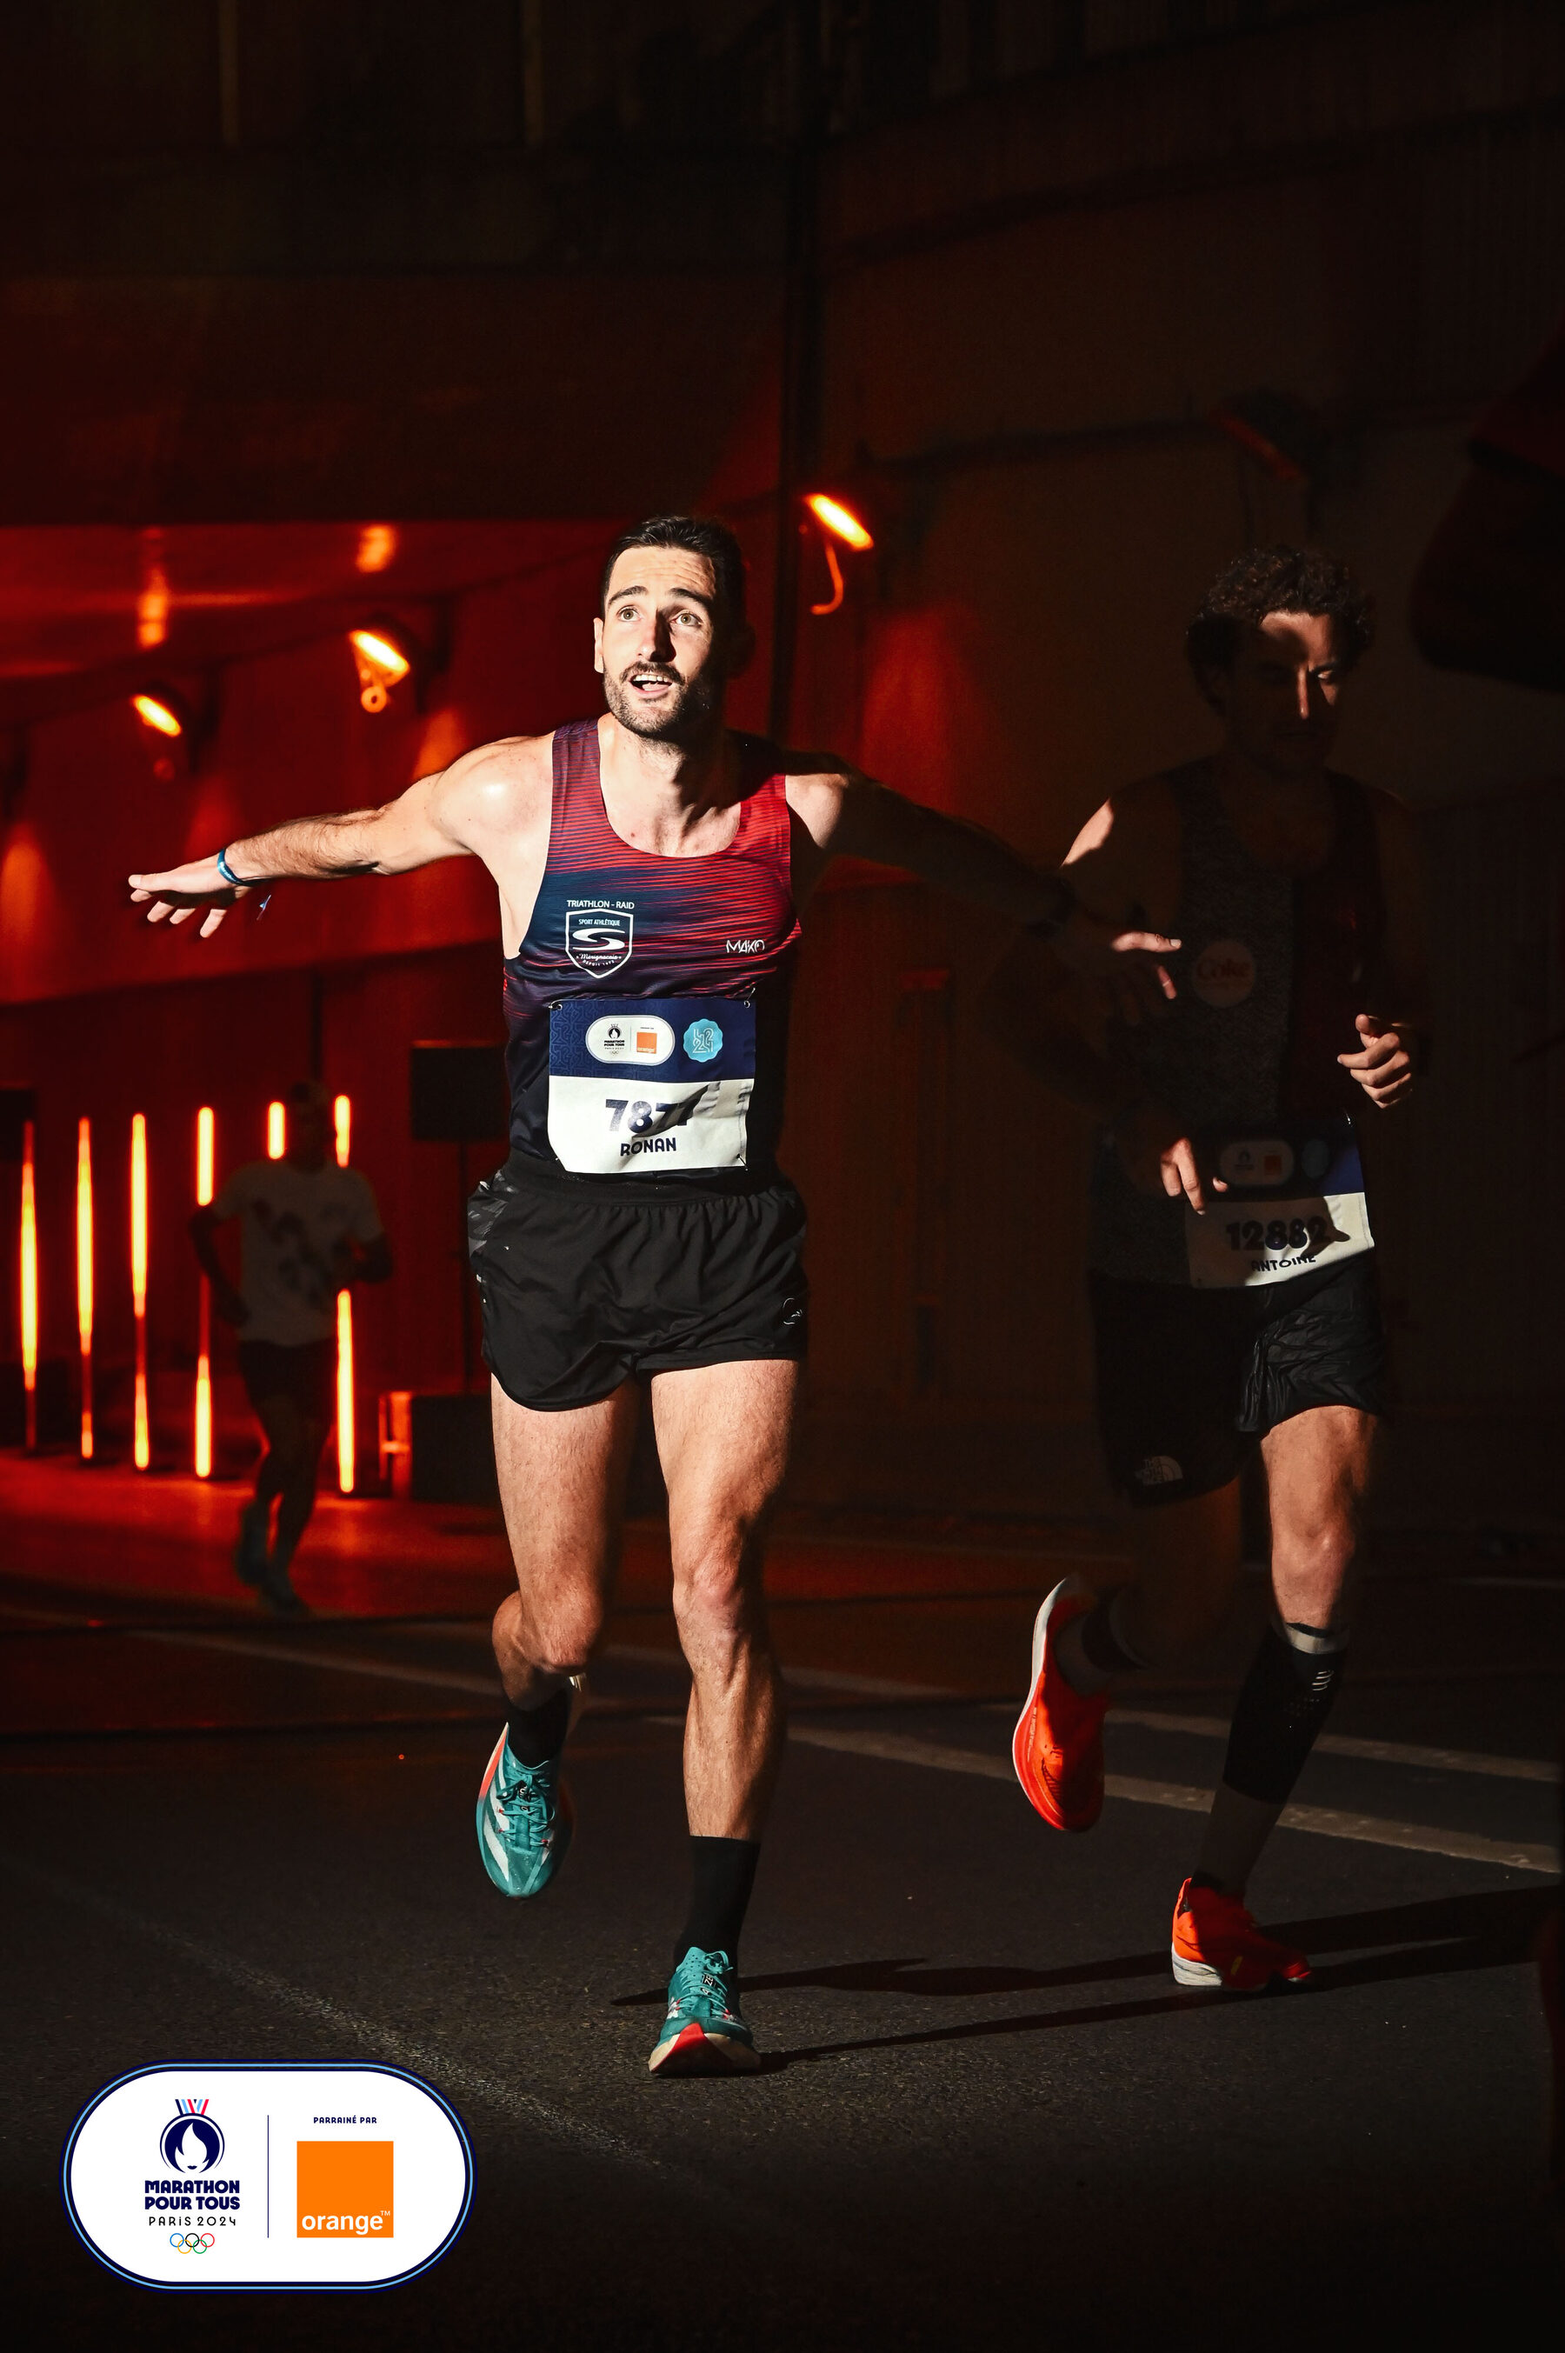
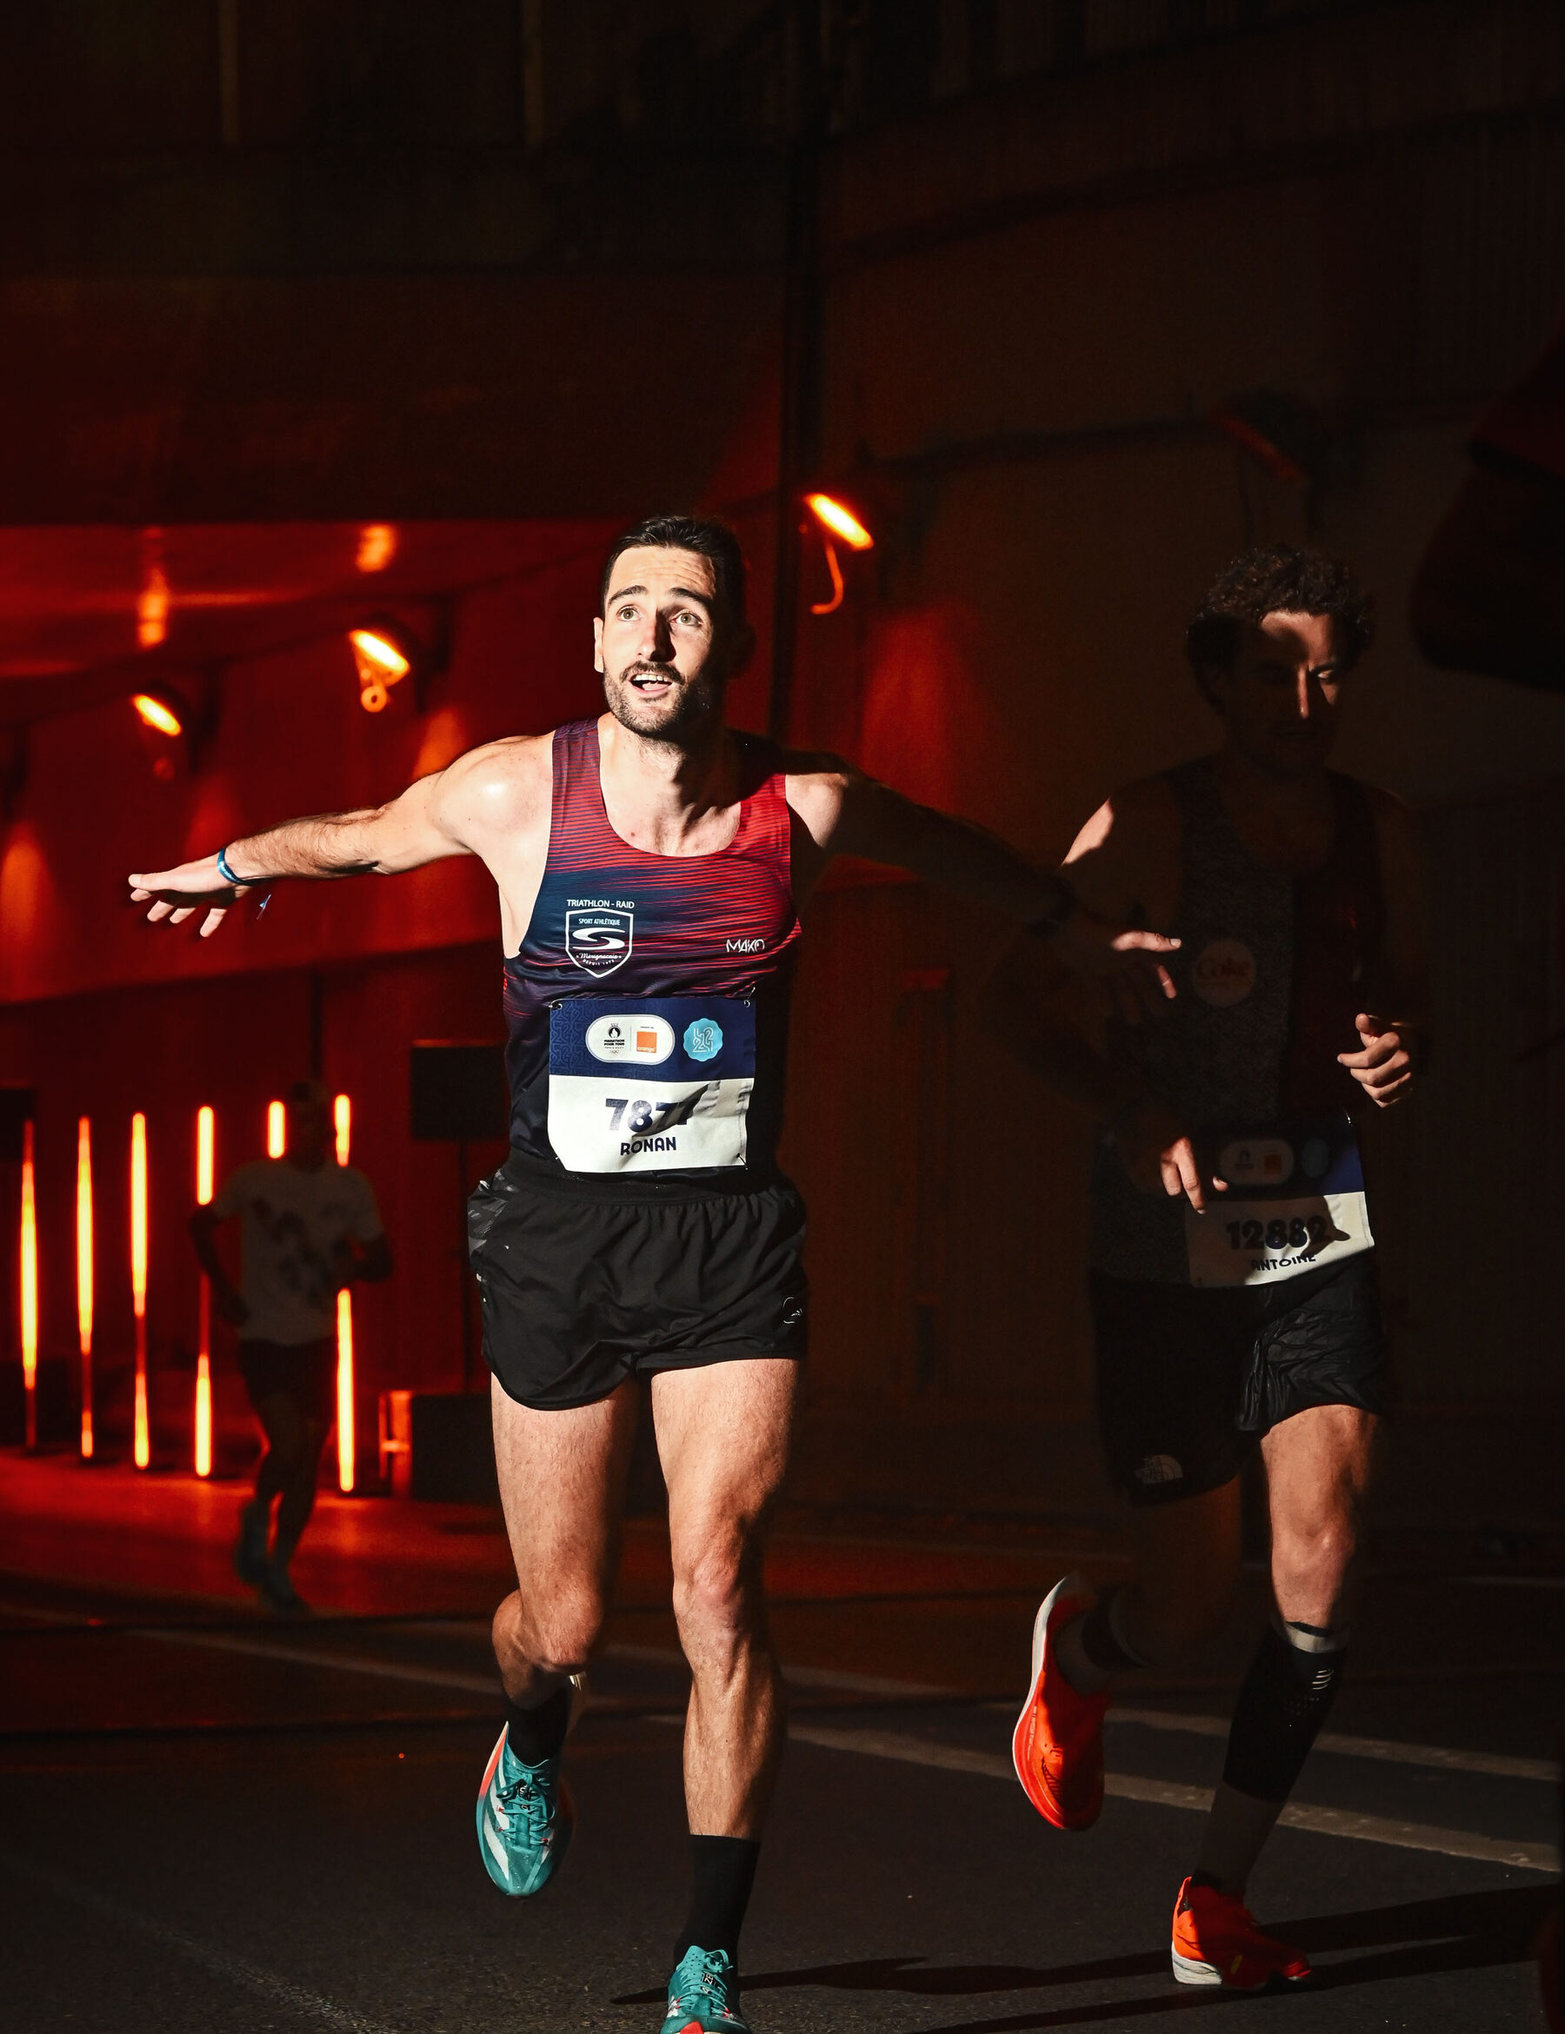
Controle des pages : titres d'onglet, photo du hero coaching, cle morte
- Titres d'onglet doubles sur les huit pages ("Entrainement — Ultra Tour de
  la Ria d'Etel | Ultra Tour de la Ria d'Etel") : chaque page ajoutait le nom
  du site, que le modele de la mise en page commune rajoute deja.
- Entrainement et Coaching : titre et description traduits (generateMetadata),
  ils restaient en francais sur /en et /es.
- Hero coaching : la photo portait en bas a gauche l'autocollant "Marathon
  pour tous / Orange" du photographe, qui tombait derriere le bouton "Nos
  epreuves" sur mobile et affichait des marques tierces. Recadree au-dessus.
- Cle ravitosBientot supprimee : l'onglet 33 km est actif, elle ne sert plus.

Claude-Session: https://claude.ai/code/session_015LAkd9YKbjMretpapgGy98

diff --git a/app/[locale]/entrainement/page.tsx b/app/[locale]/entrainement/page.tsx
@@ -1,5 +1,5 @@
 import type { Metadata } from "next";
-import { setRequestLocale } from "next-intl/server";
+import { getTranslations, setRequestLocale } from "next-intl/server";
 import Header from "@/app/components/Header";
 import EntrainementHero from "@/app/components/entrainement/EntrainementHero";
 import EntrainementNav from "@/app/components/entrainement/EntrainementNav";
@@ -12,11 +12,15 @@ import EntrainementRegles from "@/app/components/entrainement/EntrainementRegles
 import CoursePartenaires from "@/app/components/course/CoursePartenaires";
 import Footer from "@/app/components/Footer";
 
-export const metadata: Metadata = {
-  title: "Entraînement — Ultra Tour de la Ria d'Étel",
-  description:
-    "Prépare ton Ultra Tour de la Ria : conseils du coach, composition des ravitaillements, plan nutrition et matériel obligatoire des trois épreuves.",
-};
+export async function generateMetadata({
+  params,
+}: {
+  params: Promise<{ locale: string }>;
+}): Promise<Metadata> {
+  const { locale } = await params;
+  const t = await getTranslations({ locale, namespace: "entrainementPage" });
+  return { title: t("metaTitle"), description: t("metaDescription") };
+}
 
 export default async function Entrainement({
   params,

diff --git a/app/[locale]/coaching/page.tsx b/app/[locale]/coaching/page.tsx
@@ -1,5 +1,5 @@
 import type { Metadata } from "next";
-import { setRequestLocale } from "next-intl/server";
+import { getTranslations, setRequestLocale } from "next-intl/server";
 import Header from "@/app/components/Header";
 import CoachingHero from "@/app/components/coaching/CoachingHero";
 import CoachingPresentation from "@/app/components/coaching/CoachingPresentation";
@@ -12,11 +12,15 @@ import CoachingInstagram from "@/app/components/coaching/CoachingInstagram";
 import CoursePartenaires from "@/app/components/course/CoursePartenaires";
 import Footer from "@/app/components/Footer";
 
-export const metadata: Metadata = {
-  title: "Coach Ronan Kervadec — Ultra Tour de la Ria d'Étel",
-  description:
-    "Prépare l'Ultra Tour de la Ria avec Ronan Kervadec, entraîneur de trail et de triathlon : offres de coaching sur 3 mois, FAQ et conseils.",
-};
+export async function generateMetadata({
+  params,
+}: {
+  params: Promise<{ locale: string }>;
+}): Promise<Metadata> {
+  const { locale } = await params;
+  const t = await getTranslations({ locale, namespace: "coaching" });
+  return { title: t("metaTitle"), description: t("metaDescription") };
+}
 
 export default async function Coaching({
   params,

diff --git a/app/[locale]/cgv/page.tsx b/app/[locale]/cgv/page.tsx
@@ -4,7 +4,7 @@ import { getTranslations, setRequestLocale } from "next-intl/server";
 import LegalLayout from "@/app/components/LegalLayout";
 
 export const metadata: Metadata = {
-  title: "Conditions générales de vente — Ultra Tour de la Ria d'Étel",
+  title: "Conditions générales de vente",
   description:
     "Conditions générales de vente de l'Ultra Tour de la Ria d'Étel : inscriptions via Klikego, règlement, assurance.",
 };

diff --git a/app/[locale]/confidentialite/page.tsx b/app/[locale]/confidentialite/page.tsx
@@ -4,7 +4,7 @@ import { getTranslations, setRequestLocale } from "next-intl/server";
 import LegalLayout from "@/app/components/LegalLayout";
 
 export const metadata: Metadata = {
-  title: "Politique de confidentialité — Ultra Tour de la Ria d'Étel",
+  title: "Politique de confidentialité",
   description:
     "Politique de confidentialité de l'Ultra Tour de la Ria d'Étel : données collectées, cookies, droits RGPD.",
 };

diff --git a/app/[locale]/relais/page.tsx b/app/[locale]/relais/page.tsx
@@ -15,7 +15,7 @@ import CourseAutresEpreuves, {
 import Footer from "@/app/components/Footer";
 
 export const metadata: Metadata = {
-  title: "Relais Duo 80 km — Ultra Tour de la Ria d'Étel",
+  title: "Relais Duo 80 km",
   description:
     "Le Relais Duo : le Tour de la Ria d'Étel à deux, 50 km puis 30 km avec passage de relais à Sainte-Hélène. Parcours, infos pratiques et inscription. 16 octobre 2027.",
 };

diff --git a/app/[locale]/33km/page.tsx b/app/[locale]/33km/page.tsx
@@ -15,7 +15,7 @@ import CourseAutresEpreuves, {
 import Footer from "@/app/components/Footer";
 
 export const metadata: Metadata = {
-  title: "Trail 33 km — Ultra Tour de la Ria d'Étel",
+  title: "Trail 33 km",
   description:
     "Le 33 de la Ria, un trail entre sentiers techniques et paysages emblématiques de la Ria d'Étel : parcours, infos pratiques et inscription. 16 octobre 2027, Sainte-Hélène.",
 };

diff --git a/app/[locale]/mentions-legales/page.tsx b/app/[locale]/mentions-legales/page.tsx
@@ -4,7 +4,7 @@ import { getTranslations, setRequestLocale } from "next-intl/server";
 import LegalLayout from "@/app/components/LegalLayout";
 
 export const metadata: Metadata = {
-  title: "Mentions légales — Ultra Tour de la Ria d'Étel",
+  title: "Mentions légales",
   description:
     "Mentions légales du site de l'Ultra Tour de la Ria d'Étel : éditeur, hébergement, propriété intellectuelle.",
 };

diff --git a/app/[locale]/80km/page.tsx b/app/[locale]/80km/page.tsx
@@ -15,7 +15,7 @@ import CourseAutresEpreuves, {
 import Footer from "@/app/components/Footer";
 
 export const metadata: Metadata = {
-  title: "Ultra 80 km — Ultra Tour de la Ria d'Étel",
+  title: "Ultra 80 km",
   description:
     "L'Ultra 80 km, le tour complet de la Ria d'Étel en semi-autonomie : parcours, infos pratiques, ravitaillements et inscription. 16 octobre 2027, Locoal-Mendon.",
 };
